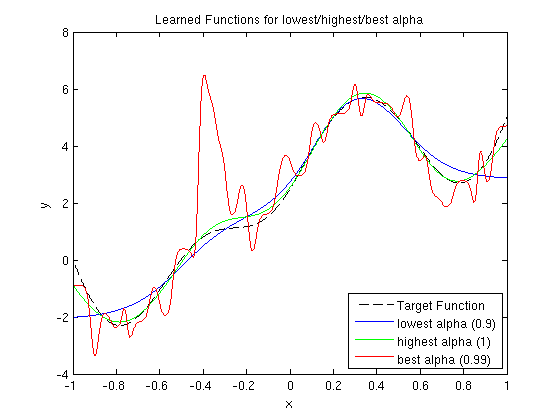
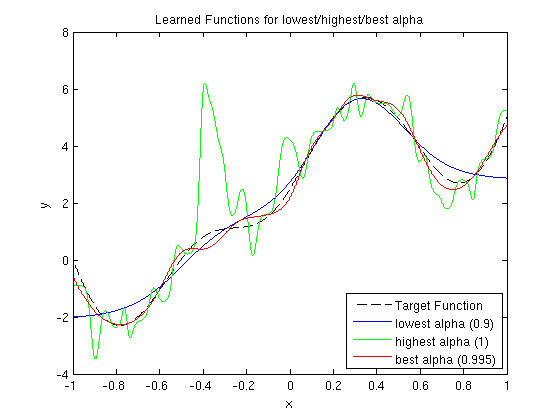
bugfixes, added documentation for task 3, missing: comparison

diff --git a/02/doc/2.tex b/02/doc/2.tex
@@ -1,0 +1,55 @@
+\begin{figure}[h!]
+  \centering
+  \includegraphics[width=0.75\textwidth]{./figures/3/3_mse_train.png}
+  \caption{MSE für unterschiedliche Anzahl an Neuronen des Trainingssets}
+  \label{fig:3_mse_train}
+\end{figure}
+
+\begin{figure}[h!]
+  \centering
+  \includegraphics[width=0.75\textwidth]{./figures/3/3_mse_test.png}
+  \caption{MSE für unterschiedliche Anzahl an Neuronen des Testsets}
+  \label{fig:3_mse_test}
+\end{figure}
+
+Abbildungen \ref{fig:3_mse_train} und \ref{fig:3_mse_test} zeigen den Mean Squared Error (MSE) für unterschiedliche Neuronenanzahl bei den Trainings- bzw. Testdatensätzen. Man erkennt, dass der MSE bei den Trainingsdaten immer kleiner wird, je mehr Neuronen verwendet werden, da sich die entstehende Funktion des Neuronalen Netzwerks immer mehr den Trainingsdaten annähert. Betrachtet man allerdings den MSE der Testdaten, erkennt man, dass ab einer bestimmten Neuronenanzahl der Fehler wieder steigt. Dieser Effekt wird als \emph{Overfitting} bezeichnet, da das Neuronale Netzwerk versucht, die Trainingsdaten perfekt nachzubilden. Dadurch stimmt die gelernte Funktion nicht mehr mit der Zielfunktion überein.
+
+Der beste Wert für $n$ wäre in diesem Fall 6, da hier der Fehler bei den Testdaten am geringsten ist. Für größere $n$ tritt Overfitting auf.
+
+\begin{figure}[h!]
+  \centering
+  \includegraphics[width=0.7\textwidth]{./figures/3/3_mse_2.png}
+  \caption{MSE des Trainings- und Testsets für 2 Neuronen}
+  \label{fig:3_mse_2}
+\end{figure}
+
+\begin{figure}[h!]
+  \centering
+  \includegraphics[width=0.7\textwidth]{./figures/3/3_mse_8.png}
+  \caption{MSE des Trainings- und Testsets für 8 Neuronen}
+  \label{fig:3_mse_8}
+\end{figure}
+
+\begin{figure}[h!]
+  \centering
+  \includegraphics[width=0.7\textwidth]{./figures/3/3_mse_40.png}
+  \caption{MSE des Trainings- und Testsets für 40 Neuronen}
+  \label{fig:3_mse_40}
+\end{figure}
+
+Abbildungen \ref{fig:3_mse_2}, \ref{fig:3_mse_8} und \ref{fig:3_mse_40} zeigen den MSE auf den Trainings- und Testdaten für 2, 8, bzw. 40 Neuronen. Man erkennt, dass es bei niedriger Anzahl an Neuronen (hier: 2, Abb.~\ref{fig:3_mse_2}) keinen Overfitting-Effekt gibt, der verbleibende Fehler auf den Trainings- und Testdaten jedoch relativ hoch bleibt. Bei einer mittleren Anzahl an Neuronen (hier: 8, Abb.~\ref{fig:3_mse_8}) wird der Fehler auf den Trainings- und Testdaten kleiner, jedoch macht sich Overfitting bereits minimal bemerkbar. Bei einer hohen Anzahl an Neuronen (hier: 40, Abb.~\ref{fig:3_mse_40}) wird der Fehler auf den Trainingsdaten zwar sehr klein, durch Overfitting steigt der Fehler auf den Testdaten jedoch wieder stark an.
+
+Der Fehler auf den Trainingsdaten nimmt mit zunehmender Anzahl Neuronen immer weiter ab, da die Funktion der Trainingsdaten immer genauer nachgebildet wird. Der Fehler auf den Testdaten steigt jedoch ab einer gewissen Anzahl Neuronen wieder, da der \emph{Overfitting}-Effekt auftritt.
+
+\begin{figure}[h!]
+  \centering
+  \includegraphics[width=0.75\textwidth]{./figures/3/3_learned.png}
+  \caption{gelernte Funktion bei 2, 8 bzw. 40 Neuronen}
+  \label{fig:3_learned}
+\end{figure}
+
+Abbildung~\ref{fig:3_learned} zeigt die gelernten Funktionen für 2, 8 bzw. 40 Neuronen. Wie man in den vorherigen Plots erkennt, ist die Annäherung an die Zielfunktion mit 2 Neuronen noch relativ schlecht, da der MSE noch sehr groß ist. Bei 8 Neuronen ist der MSE um einiges gesunken, deswegen wird auch die Zielfunktion gut angenähert. Bei zu vielen Neuronen, wie hier 40, tritt der Overfitting-Effekt auf und das Neuronale Netzwerk versucht eine Funktion zu finden, das die Trainingsdaten möglichst gut abbildet. Dadurch entfernt sich die gelernte Funktion wieder von der Zielfunktion.
+
+Hier treten die gleichen Effekte auf wie bei der Linearen Regression. Der Grad des Polynoms hat den gleichen Effekt auf die Qualität der gelernten Funktion wie die Anzahl der Neuronen beim Neuronalen Netzwerk. Ist der Grad zu niedrig, kann die Funktion nicht gut nachgebildet werden. Ist der Grad zu hoch, tritt Overfitting auf.
+
+\clearpage

diff --git a/02/doc/3.tex b/02/doc/3.tex
@@ -1,1 +1,55 @@
 \subsection{Regularized Neural Networks}
+
+\subsubsection{Weight Decay}
+
+\begin{figure}[h!]
+  \centering
+  \includegraphics[width=0.75\textwidth]{./figures/3/3_1_mse_train_wd.png}
+  \caption{MSE des Trainingssets mit \emph{weight decay} für unterschiedliche $\alpha$}
+  \label{fig:3_1_mse_train_wd}
+\end{figure}
+
+\begin{figure}[h!]
+  \centering
+  \includegraphics[width=0.75\textwidth]{./figures/3/3_1_mse_test_wd.png}
+  \caption{MSE des Testsets mit \emph{weight decay} für unterschiedliche $\alpha$}
+  \label{fig:3_1_mse_test_wd}
+\end{figure}
+
+Abbildungen \ref{fig:3_1_mse_train_wd} und \ref{fig:3_1_mse_test_wd} zeigen den Fehler des Trainings- bzw. Testsets für unterschiedliche $\alpha$. Bei \emph{weight decay} wird dem MSE ein \emph{penalty term} dazuaddiert, der sich aus den Gewichten berechnet. Dadurch wird bei steigenden Gewichten auch der Fehler größer, was dazu führt, dass Gewichte keine sehr großen Werte annehmen. Dadurch wird verhindert, dass sich die Gewichte zu sehr an die Trainingsdaten anpassen, dadurch wird Overfitting vermindert. Bei kleinem $\alpha$ steigt der Fehler, da die Gewichtssumme zu stark ins Gewicht fällt. Erhöht man $\alpha$, kommt man irgendwann zu dem Wert, bei dem der Fehler minimiert wird, indem die Größe der Gewichte sinnvoll beschränkt wird. Erhöht man dann $\alpha$ weiter, kommt man wieder zum gleichen Ergebnis wie ohne weight decay, nämlich Overfitting.
+
+Bei diesem Beispiel ergab sich der beste Wert zu $\alpha = 0.995$.
+
+\emph{Weight decay} erzielt den gleichen Effekt wie der \emph{regularization term} bei linearer Regression. Bei Betrachtung der Formeln sieht man, dass diese prinzipiell übereinstimmen, nämlich der MSE und die Summe der Gewichte, jeweils wiederum gewichtet.
+
+\begin{figure}[h!]
+  \centering
+  \includegraphics[width=0.75\textwidth]{./figures/3/3_1_learned_wd.png}
+  \caption{Gelernte Funktionen mit \emph{weight decay} für das geringste, größte und beste $\alpha$}
+  \label{fig:3_1_learned_wd}
+\end{figure}
+
+Abbildung~\ref{fig:3_1_learned_wd} zeigt die gelernte Funktion für das geringste, größte und beste $\alpha$. Man erkennt, dass bei zu niedrigem $\alpha$ die Kurve zu ``flach'' ist, da die Gewichte zu stark in den Fehler einfließen. Bei zu hohem $\alpha$ erhält man das gleiche Ergebnis wie ohne weight decay.
+
+
+\subsubsection{Early Stopping}
+
+\begin{figure}[h!]
+  \centering
+  \includegraphics[width=0.75\textwidth]{./figures/3/3_1_learned_es.png}
+  \caption{Gelernte Funktionen mit \emph{early stopping} des komplett trainierten Netzwerkes und des Early-Stopped Netzwerkes}
+  \label{fig:3_1_learned_es}
+\end{figure}
+
+Abbildung \ref{fig:3_1_learned_es} zeigt die gelernte Funktion des komplett trainierten Netzwerkes bzw. des Early-Stopped Netzwerkes. Die gelernte Funktion des komplett trainierten Netzwerkes ist bereits ein vertrautes Bild, sie entspricht der der vorangegangenen Methoden. Beim \emph{early stopping} bricht man den Lernvorgang des Neuronalen Netzwerkes dann ab, wenn der Fehler auf den Testdaten am geringsten ist (also wenn die Gewichte noch ``generell'' genug sind, und es noch nicht zu Overfitting gekommen ist). Dadurch ergibt sich ein sehr geringer Fehler.
+
+Das \textsc{Matlab}-Skript (siehe Anhang) ermittelt den geringsten Fehler auf den Testdaten, und bei welcher Epoche dieser auftritt:
+
+\noindent \texttt{fully trained NN with 40 neurons: 0.028497 mse on training set, 1.572938 mse on testset\\
+minimal mse is 0.232383 at epoch 11\\
+early stopping trained NN with 40 neurons: 0.137280 mse on training set, 0.232383 mse on testset}
+
+
+\subsubsection{Comparison}
+
+blah blah blah

diff --git a/02/implementation/ue2_3_1_wd.m b/02/implementation/ue2_3_1_wd.m
@@ -76,7 +76,7 @@ best_alpha = alpha(min_index);
 disp(['minimum mse is ' num2str(mse_min) ' with alpha=' num2str(best_alpha)]);
 
 figure;
-plot(x_test, y_target, 'k--', x_test, y_learned(1, :), 'b-', x_test, y_learned(min_index, :), 'g-', x_test, y_learned(end, :), 'r-');
+plot(x_test, y_target, 'k--', x_test, y_learned(1, :), 'b-', x_test, y_learned(end, :), 'g-', x_test, y_learned(min_index, :), 'r-');
 title('Learned Functions for lowest/highest/best alpha');
 xlabel('x');
 ylabel('y');
